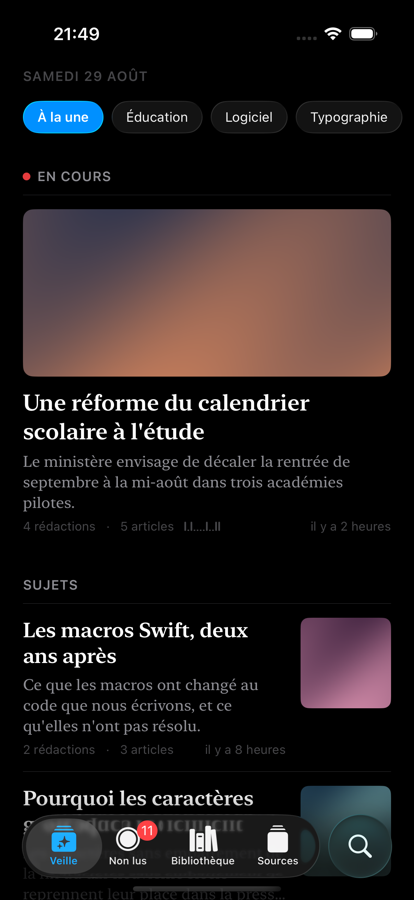
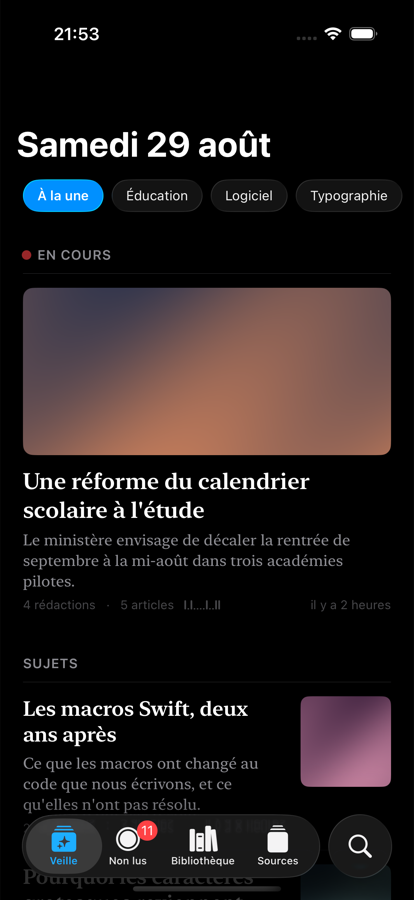
Title the digest with the day's date
The dateline was a line inside the page. It is the title of the view
now, large like every other section's and shrinking into the bar as the
reader scrolls, which is the behaviour the sources list already had and
the one a reader expects of a title.

It is spelled the way the reader's language spells it, with only its
first letter raised : French writes `samedi 29 août`, and capitalizing
every word would give `Samedi 29 Août`. It is read at each render rather
than held, so a page left open overnight is not still yesterday's.

diff --git a/Flong/Features/Digest/DigestScreen.swift b/Flong/Features/Digest/DigestScreen.swift
@@ -29,7 +29,6 @@ struct DigestScreen: View {
     var body: some View {
         ScrollView {
             LazyVStack(alignment: .leading, spacing: 0) {
-                masthead
                 topics
                 stories
             }
@@ -38,13 +37,18 @@ struct DigestScreen: View {
             .padding(.bottom, 90)
         }
         .scrollEdgeEffectStyle(.soft, for: .top)
-        // No title and no refresh button. The tab bar already says which section
-        // this is, and a headline is a poor thing to put under a label ; the
-        // page refreshes itself on returning to the foreground and on a pull,
-        // which is every way a reader would ask on a touch screen.
-        #if os(iOS)
-            .navigationBarTitleDisplayMode(.inline)
-        #else
+        // The date is the title of the page, where a newspaper puts it. Not the
+        // name of the section : the tab bar says that already, and a page that
+        // repeats its own label has spent a line saying nothing. A dateline says
+        // what the label did not, which is how old what follows is allowed to be.
+        //
+        // A large title like every other section's, so it shrinks into the bar
+        // as the reader scrolls into the page.
+        .navigationTitle(Text(verbatim: Self.today()))
+        // No refresh button : the page refreshes itself on returning to the
+        // foreground and on a pull, which is every way a reader asks on a touch
+        // screen.
+        #if !os(iOS)
             // A Mac has no pull, so it keeps the command, in the place a Mac
             // keeps commands.
             .toolbar {
@@ -136,23 +140,16 @@ struct DigestScreen: View {
         model.digest.live.first?.id ?? model.digest.stories.first?.id
     }
 
-    /// The date, where a newspaper puts it.
+    /// Today, spelled the way the reader's language spells it.
     ///
-    /// It replaces the name of the section, which the tab bar already carries
-    /// and which a page has no business repeating. A dateline says something the
-    /// label did not : how old what follows is allowed to be.
-    ///
-    /// In the page rather than in the navigation bar, because on iPad the tab
-    /// bar occupies that row and a title never appears there at all.
-    private var masthead: some View {
-        Text(Date.now, format: .dateTime.weekday(.wide).day().month(.wide))
-            .font(.system(.footnote, weight: .semibold))
-            .textCase(.uppercase)
-            .kerning(0.8)
-            .foregroundStyle(.tertiary)
-            .padding(.top, 4)
-            .padding(.bottom, Editorial.tightRhythm)
-            .frame(maxWidth: .infinity, alignment: .leading)
+    /// Read at each render rather than held : the page is rebuilt on returning
+    /// to the foreground, which is when a date left open overnight would
+    /// otherwise be yesterday's.
+    private static func today(_ date: Date = .now) -> String {
+        let spelled = date.formatted(.dateTime.weekday(.wide).day().month(.wide))
+        // Only the first letter : French writes `samedi 29 août`, and
+        // capitalizing every word would give `Samedi 29 Août`.
+        return spelled.prefix(1).localizedUppercase + spelled.dropFirst()
     }
 
     /// The subjects the model found, as pills that scroll.

diff --git a/docs/technical/interface.md b/docs/technical/interface.md
@@ -61,11 +61,11 @@ Nothing else animates.
 
 ## The dateline
 
-The page carries no title and no refresh button.
+**The title of the page is the date.** Not the name of the section : the tab bar says that already, and a page that repeats its own label has spent a line saying nothing. A dateline says what the label did not, which is how old what follows is allowed to be, and it is where a newspaper puts it.
 
-The tab bar already says which section this is, and a page that repeats its own label under it has spent a line saying nothing. In its place is the date, uppercase and kerned like the section headers, where a newspaper puts it : it says something the label did not, which is how old what follows is allowed to be. It sits in the page rather than in the navigation bar, since on iPad the tab bar occupies that row and a title never appears there at all.
+It is a large title like every other section's, so it shrinks into the bar as the reader scrolls into the page. It is spelled the way the reader's language spells it, with only its first letter raised : French writes `samedi 29 août`, and capitalizing every word would give `Samedi 29 Août`. It is read at each render rather than held, so a page left open overnight is not still yesterday's.
 
-The refresh button goes for the same reason. The page refreshes itself on returning to the foreground and on a pull, which is every way a reader asks on a touch screen. A Mac has no pull, so it keeps the command in the toolbar, on the key a Mac expects.
+There is no refresh button. The page refreshes itself on returning to the foreground and on a pull, which is every way a reader asks on a touch screen. A Mac has no pull, so it keeps the command in the toolbar, on the key a Mac expects.
 
 ## Subjects, not periods
 

diff --git a/CHANGELOG.md b/CHANGELOG.md
@@ -31,6 +31,6 @@ The format is based on [Keep a Changelog](https://keepachangelog.com/en/1.1.0/),
 - Long work done in resumable batches and in the background : the feeds an import left unfetched, and a vector for every kept article, computed on the device and shared between them, which lets the library be searched by meaning rather than by words.
 - A digest as the main screen : articles grouped into stories, the ones several rooms are covering right now shown as they arrive, named and summarized on the device by the system model in the reader's own language whatever language the articles are in, each one stating the rooms, the count and the shape of the arrival it rests on.
 - Subjects across the page, found by the system model and shown as pills that scroll, the front page first : a story is under one subject, a subject covering a single story is dropped, and without a model there are no pills and the front page is entire.
-- The digest opens on its date rather than on its own name, and refreshes on a pull and on returning to the foreground, the Mac keeping the command in its toolbar.
+- The digest is titled with the day's date rather than with its own name, and refreshes on a pull and on returning to the foreground, the Mac keeping the command in its toolbar.
 - An editorial page rather than a control panel : one readable column, serif for what was written and sans for what the application says about it, hairline rules in place of cards, and Liquid Glass left to the system's own navigation bar, where Apple's guidance keeps it.
 - Pictures on the page : the first story runs its picture across the column, the others keep it to a square at the side, decoded at the size they are drawn and cached on disk rather than fetched twice.
